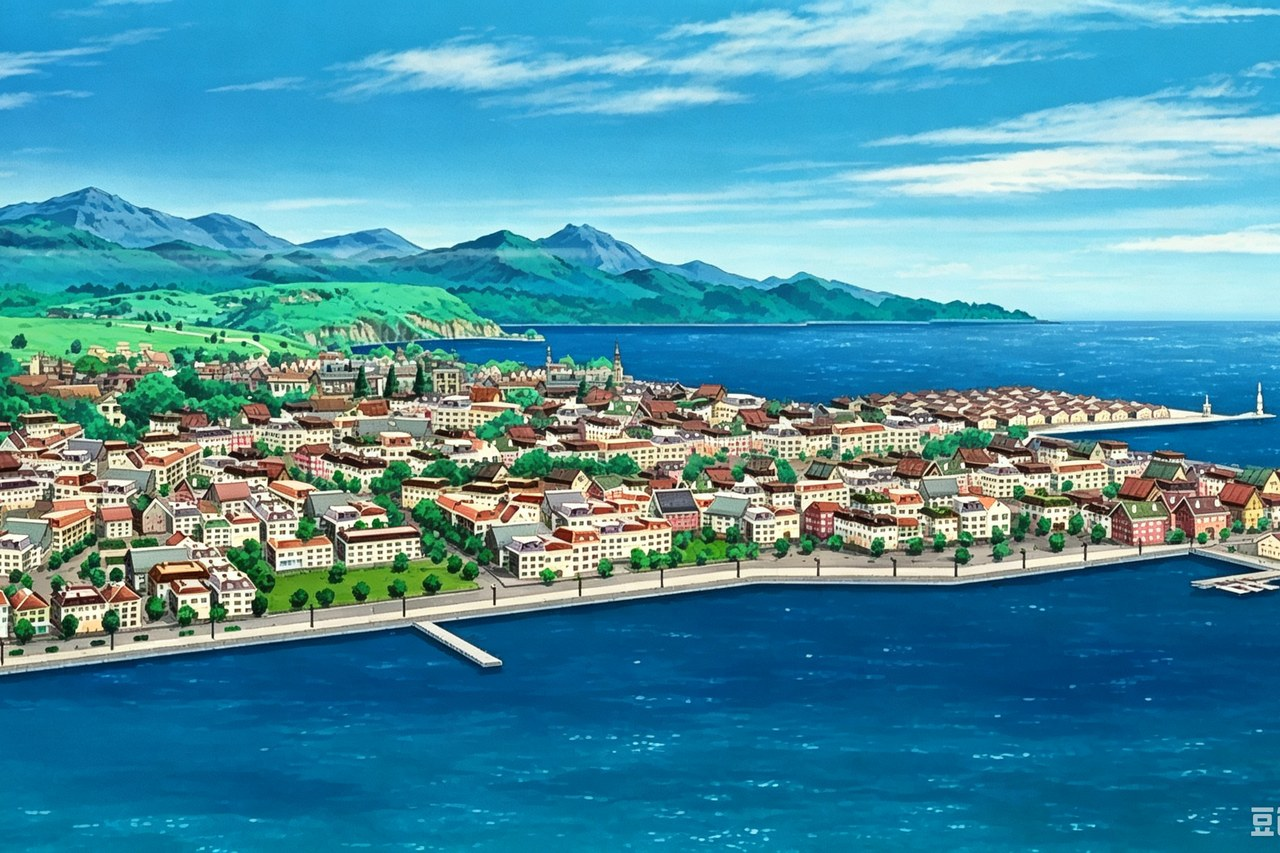
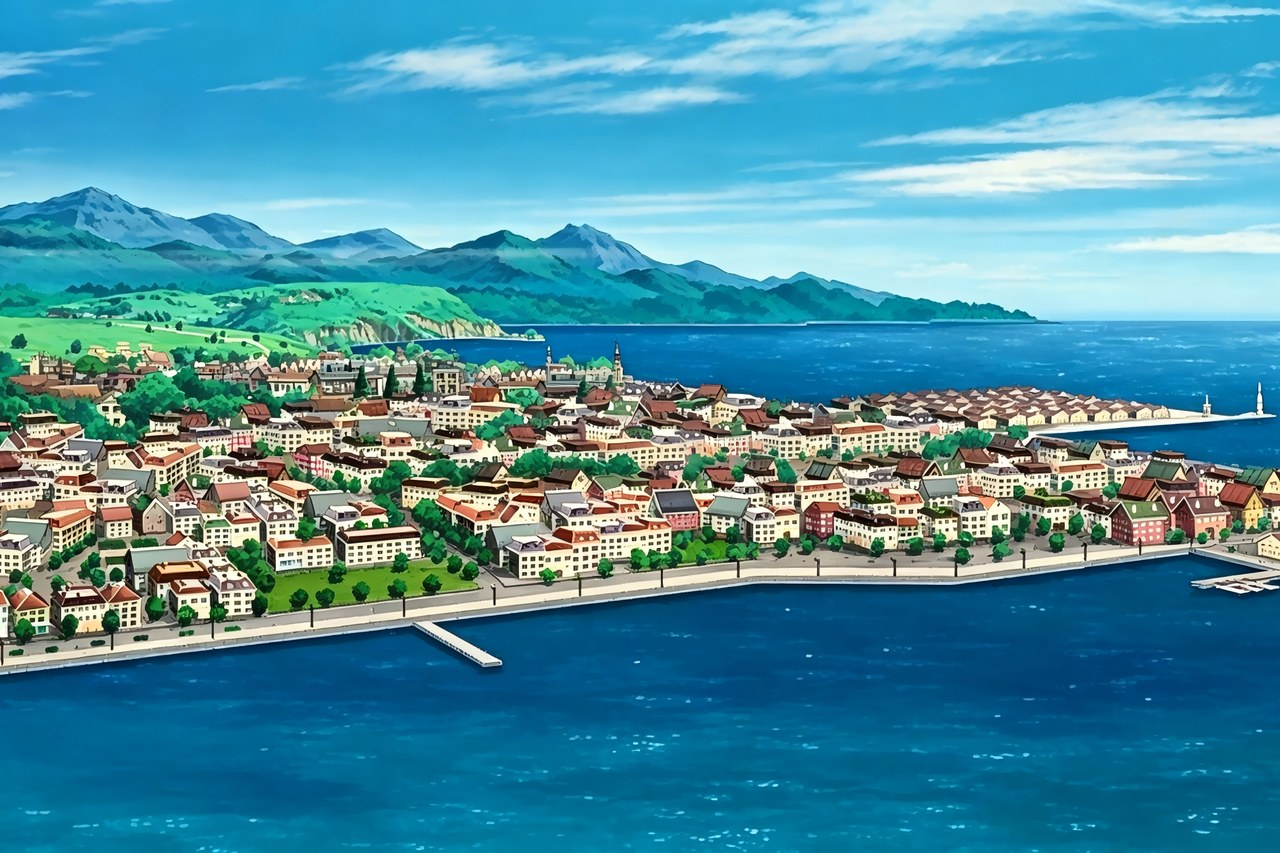
fix(rogue-ui): 事件卡铺事件图素材（8 类接入），并更新 bg_map1-5 地图背景
- bg_map1-5：新素材经 bg_crop.py（第三批）中心预裁 1280×853 替换原图，资源路径不变、无需改代码
- 事件卡图片区：有素材的类型铺满预裁事件图（2x 396×158，上两角随卡面 12px 圆角裁切）；暂无素材
  的类型保持默认占位（emoji + 预留区标签 + 精灵球装饰）
- 类型映射：路人=passer / 野外精灵=wildpokemon / 医院=hospital / 商店=shop / 装备补给=device /
  火箭队=teamrocket / 火箭队抓捕神兽=teamrocket_boss / 神兽偶遇=legendarypokemon（源文件名
  teamroket_boss 笔误已在转换输出纠正）
- 火箭队首领原图竖版（1600×2496），居中裁切会切到脸部，单独采用上偏锚点 0.25（见 event_crop.py）
- 缺图清单：神秘事件（SPECIAL）暂无素材 → 保持默认占位；必然节点（道馆 / 四天王 / 冠军）不出
  现在卡面、无需图片
- 验证：编译通过；mvn -o test 421 例通过；rogue19 截图核对主态 4 图 + 素材态 1（装备 / 首领 /
  神兽）+ 素材态 2（商店 / 神秘事件默认占位 / 火箭队）+ 悬停弹窗无回归；探针 CARD img=true

diff --git a/src/main/java/org/example/view/RogueFloorView.java b/src/main/java/org/example/view/RogueFloorView.java
@@ -16,6 +16,8 @@ import javafx.scene.Scene;
 import javafx.scene.control.Button;
 import javafx.scene.control.ContentDisplay;
 import javafx.scene.control.Label;
+import javafx.scene.image.Image;
+import javafx.scene.image.ImageView;
 import javafx.scene.layout.GridPane;
 import javafx.scene.layout.HBox;
 import javafx.scene.layout.Pane;
@@ -23,6 +25,8 @@ import javafx.scene.layout.Priority;
 import javafx.scene.layout.Region;
 import javafx.scene.layout.StackPane;
 import javafx.scene.layout.VBox;
+import javafx.scene.shape.Rectangle;
+import javafx.scene.shape.Shape;
 import javafx.util.Duration;
 import org.example.GameSession;
 import org.example.config.AppConfig;
@@ -36,7 +40,9 @@ import org.example.util.UiScale;
 
 import java.util.ArrayList;
 import java.util.Comparator;
+import java.util.HashMap;
 import java.util.List;
+import java.util.Map;
 import java.util.function.Consumer;
 
 /**
@@ -53,7 +59,7 @@ import java.util.function.Consumer;
  *       无黑框、深蓝字，+ 副提示胶囊）贴页面最上方、水平居中于画布；</li>
  *   <li>节点卡 —— 最多 3 列 × 2 行网格：上排固定三位常驻节点（野生宝可梦 → 路人训练师 → 医院，
  *       从左到右位置恒定），随机事件保持生成顺序排在下排；只渲染已刷新出来的事件、不做占位补格
- *       （真实节点至多 {@link RouteConfig#MAX_ROUTE_NODES} 个）：顶部图片预留区（渐变 + 类型 emoji + 精灵球装饰），
+ *       （真实节点至多 {@link RouteConfig#MAX_ROUTE_NODES} 个）：顶部图片区（按类型铺预裁事件图 396×158；暂无素材的类型保留默认占位：渐变 + 类型 emoji + 精灵球装饰），
  *       底部「类型 · 名称」与金色行动点徽章；悬停上浮并在卡片上方弹出深蓝金框描述弹窗，
  *       点击进入节点（点击行为与旧版按钮一致）；</li>
  *   <li>已走过的一次性节点 —— 灰底虚线只读卡（由 {@link Option#isConsumed()} 标记，取代旧版
@@ -83,6 +89,12 @@ public class RogueFloorView {
     private static final double GRID_GAP = 10;
     /** 探索态网格垂直居中校正：修正底部预告条与头部行高的差额，使网格中心对准画布垂直中心。 */
     private static final double GRID_BOTTOM_RESERVE = 37;
+
+    /** 事件卡「图片区」的事件图目录（classpath；文件名按节点类型映射，见 {@link #eventImageFor}）。 */
+    private static final String EVENT_IMAGE_DIR = "/images/event/";
+
+    /** 事件图缓存：类型 → 图片；value 为 null 表示该类型暂无素材（保持默认占位图案）。 */
+    private static final Map<OptionType, Image> EVENT_IMAGE_CACHE = new HashMap<>();
 
     /** 卡片入场动效（与启动页胶囊按钮入场动画同参数：错峰上浮淡入；错峰顺序 = 从左到右、从上到下）。 */
     private static final double ENTRANCE_RISE = 11;
@@ -365,25 +377,36 @@ public class RogueFloorView {
         int cost = option.apCostForNextEntry();
         boolean affordable = cost <= data.getAp();
 
-        // ── 卡面内容：上部图片预留区（类型 emoji + 精灵球装饰；渐变底由卡片背景层绘制）──
+        // ── 卡面内容：上部图片区（有事件图则铺满预裁图片，暂无素材的类型保持默认占位；渐变底由卡片背景层绘制）──
         StackPane top = new StackPane();
         fixedSize(top, CARD_W, CARD_TOP_H);
 
-        Label icon = new Label(emojiFor(option));
-        icon.setStyle("-fx-font-size: 24px;");
-        Label areaTag = new Label("事件图片预留区");
-        areaTag.setStyle(FONT + " -fx-font-size: 7.5px; -fx-font-weight: bold; -fx-text-fill: #1565C0;"
-                + " -fx-background-color: rgba(255,255,255,0.7); -fx-background-radius: 20;"
-                + " -fx-border-color: #90CAF9; -fx-border-width: 1; -fx-border-radius: 20;"
-                + " -fx-padding: 1 7;");
-        VBox centerCol = new VBox(3, icon, areaTag);
-        centerCol.setAlignment(Pos.CENTER);
-        top.getChildren().add(centerCol);
+        Image eventImage = eventImageFor(option.getType());
+        if (eventImage != null) {
+            ImageView view = new ImageView(eventImage);
+            view.getStyleClass().add("event-image"); // 供截图 / 冒烟测试探针定位
+            view.setFitWidth(CARD_W);
+            view.setFitHeight(CARD_TOP_H);
+            view.setPreserveRatio(false); // 素材已按图片区比例预裁（2x 396×158），直接铺满
+            top.setClip(roundedTopClip()); // 上两角随卡面 12px 圆角裁切，下缘平直贴合中部白带
+            top.getChildren().add(view);
+        } else {
+            Label icon = new Label(emojiFor(option));
+            icon.setStyle("-fx-font-size: 24px;");
+            Label areaTag = new Label("事件图片预留区");
+            areaTag.setStyle(FONT + " -fx-font-size: 7.5px; -fx-font-weight: bold; -fx-text-fill: #1565C0;"
+                    + " -fx-background-color: rgba(255,255,255,0.7); -fx-background-radius: 20;"
+                    + " -fx-border-color: #90CAF9; -fx-border-width: 1; -fx-border-radius: 20;"
+                    + " -fx-padding: 1 7;");
+            VBox centerCol = new VBox(3, icon, areaTag);
+            centerCol.setAlignment(Pos.CENTER);
+            top.getChildren().add(centerCol);
 
-        Region ball = buildPokeballDecoration(13, 0.6);
-        StackPane.setAlignment(ball, Pos.TOP_RIGHT);
-        StackPane.setMargin(ball, new Insets(4, 5, 0, 0));
-        top.getChildren().add(ball);
+            Region ball = buildPokeballDecoration(13, 0.6);
+            StackPane.setAlignment(ball, Pos.TOP_RIGHT);
+            StackPane.setMargin(ball, new Insets(4, 5, 0, 0));
+            top.getChildren().add(ball);
+        }
 
         if (option.isConsumed()) { // 常驻节点走过后仍可再次进入：卡面标出次数（详情见弹窗）
             Label visits = new Label("已走过 " + option.getVisitCount() + " 次");
@@ -743,6 +766,55 @@ public class RogueFloorView {
             case CHAMPION -> "👑";
             case ROCKET_INVASION -> "👹";
         };
+    }
+
+    /**
+     * 卡面图片区的事件图：按节点类型从 classpath {@value #EVENT_IMAGE_DIR} 加载
+     * （素材名与类型对应：passer=路人 / wildpokemon=野外精灵 / hospital=医院 / shop=商店 /
+     * device=装备补给 / teamrocket=火箭队 / teamrocket_boss=火箭队抓捕神兽 /
+     * legendarypokemon=神兽偶遇；均为 2x 396×158 中心预裁图，见临时/event_crop.py）。
+     * 未配图的类型返回 {@code null}（如神秘事件），调用方保持默认占位图案；
+     * 结果带缓存（含空结果，避免重复回查 classpath）。
+     */
+    private static Image eventImageFor(OptionType type) {
+        if (type == null) {
+            return null;
+        }
+        if (EVENT_IMAGE_CACHE.containsKey(type)) {
+            return EVENT_IMAGE_CACHE.get(type);
+        }
+        String name = switch (type) {
+            case TRAINER -> "passer";
+            case WILD -> "wildpokemon";
+            case HOSPITAL -> "hospital";
+            case SHOP -> "shop";
+            case REWARD -> "device";
+            case ROCKET -> "teamrocket";
+            case ROCKET_CAPTURE -> "teamrocket_boss";
+            case LEGENDARY -> "legendarypokemon";
+            default -> null; // 神秘事件暂无素材；必然节点（道馆等）不出现于卡面
+        };
+        Image image = null;
+        if (name != null) {
+            var url = RogueFloorView.class.getResource(EVENT_IMAGE_DIR + name + ".png");
+            if (url != null) {
+                image = new Image(url.toString(), false); // 同步解码：立即获知加载错误
+                if (image.isError()) {
+                    image = null;
+                }
+            }
+        }
+        EVENT_IMAGE_CACHE.put(type, image);
+        return image;
+    }
+
+    /** 图片区圆角裁剪：只圆上两角（12px，与卡面圆角一致），下缘平直贴合中部白带。 */
+    private static Shape roundedTopClip() {
+        Rectangle cap = new Rectangle(CARD_W, CARD_TOP_H);
+        cap.setArcWidth(24);
+        cap.setArcHeight(24);
+        Rectangle body = new Rectangle(0, 12, CARD_W, CARD_TOP_H - 12);
+        return Shape.union(cap, body);
     }
 
     /** 返回入口：复用 {@link FloatingMenu} 共享胶囊菜单组（外观 / 悬停上浮 / 选中放大与变色 /
